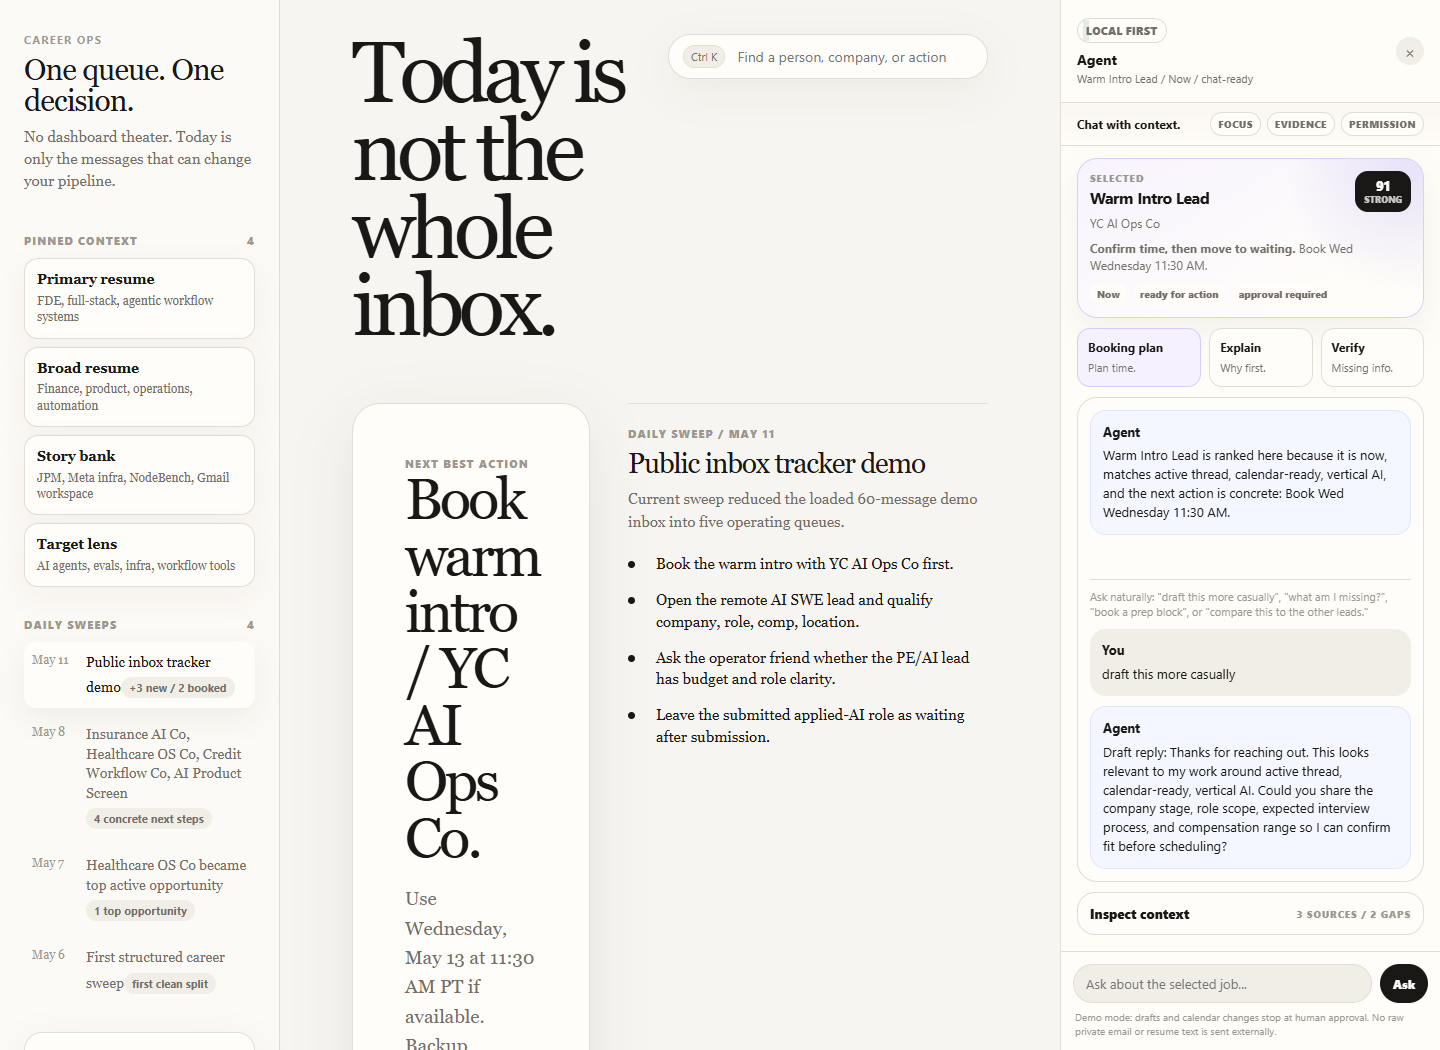
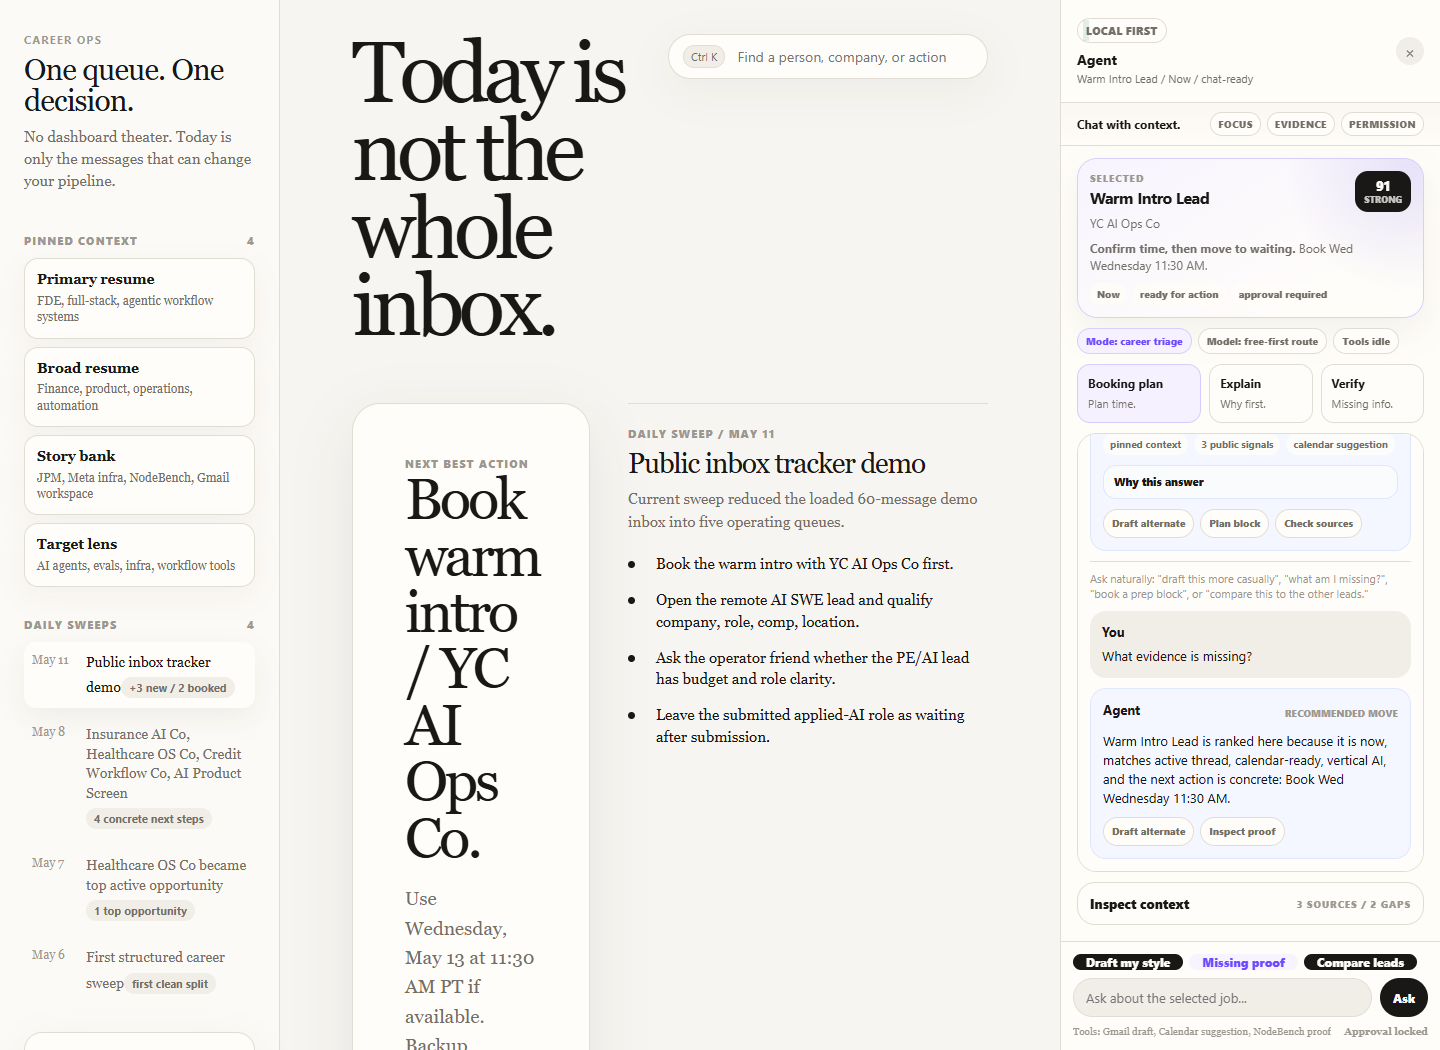
Add best-practice agent rail affordances

Changed region(s): [[0.75, 0.5486, 1.0, 1.0], [0.75, 0.3048, 0.9688, 0.5181]]

diff --git a/public/demo/today-queue.html b/public/demo/today-queue.html
@@ -795,10 +795,10 @@
     }
 
     .agent-body {
-      display: grid;
-      grid-template-rows: auto auto minmax(260px, 1fr) auto;
+      display: flex;
+      flex-direction: column;
       gap: 10px;
-      overflow: auto;
+      overflow: hidden;
       padding: 12px 16px 16px;
       font-family: ui-sans-serif, system-ui, -apple-system, BlinkMacSystemFont, "Segoe UI", sans-serif;
       font-size: 13px;
@@ -1137,8 +1137,35 @@
       min-height: 54px;
     }
 
+    .agent-modebar {
+      display: flex;
+      gap: 6px;
+      overflow: hidden;
+    }
+
+    .mode-chip {
+      min-width: 0;
+      border: 1px solid var(--line);
+      border-radius: 999px;
+      background: var(--surface);
+      color: var(--muted);
+      padding: 5px 8px;
+      font-size: 10px;
+      font-weight: 850;
+      white-space: nowrap;
+      text-overflow: ellipsis;
+      overflow: hidden;
+    }
+
+    .mode-chip.active {
+      border-color: #d8cffc;
+      background: #f5f1ff;
+      color: var(--purple);
+    }
+
     .agent-chat-thread {
       min-height: 260px;
+      flex: 1;
       overflow: auto;
       display: flex;
       flex-direction: column;
@@ -1151,6 +1178,92 @@
 
     .agent-chat-thread .agent-message {
       order: 0;
+    }
+
+    .agent-message-head {
+      display: flex;
+      align-items: center;
+      justify-content: space-between;
+      gap: 8px;
+      margin-bottom: 7px;
+    }
+
+    .agent-message-head strong {
+      margin: 0;
+    }
+
+    .message-meta {
+      color: var(--faint);
+      font-size: 10px;
+      font-weight: 850;
+      text-transform: uppercase;
+      white-space: nowrap;
+    }
+
+    .message-sources,
+    .message-actions {
+      display: flex;
+      flex-wrap: wrap;
+      gap: 6px;
+      margin-top: 10px;
+    }
+
+    .message-sources span {
+      border-radius: 999px;
+      background: rgba(255, 253, 249, .74);
+      color: var(--muted);
+      padding: 4px 7px;
+      font-size: 10px;
+      font-weight: 750;
+    }
+
+    .message-actions button,
+    .agent-suggestions button {
+      border: 1px solid var(--line);
+      border-radius: 999px;
+      background: var(--surface);
+      color: var(--muted);
+      padding: 6px 8px;
+      font-size: 10px;
+      font-weight: 850;
+      cursor: pointer;
+    }
+
+    .message-actions button:hover,
+    .agent-suggestions button:hover {
+      border-color: #d8cffc;
+      color: var(--purple);
+      background: #f7f4ff;
+    }
+
+    .message-reasoning {
+      margin-top: 10px;
+      border: 1px solid #dfe7ff;
+      border-radius: 13px;
+      background: rgba(255, 253, 249, .58);
+      overflow: hidden;
+    }
+
+    .message-reasoning summary {
+      cursor: pointer;
+      list-style: none;
+      padding: 8px 10px;
+      color: var(--ink);
+      font-size: 11px;
+      font-weight: 900;
+    }
+
+    .message-reasoning summary::-webkit-details-marker {
+      display: none;
+    }
+
+    .message-reasoning p {
+      margin: 0;
+      border-top: 1px solid #dfe7ff;
+      padding: 8px 10px;
+      color: var(--muted);
+      font-size: 11px;
+      line-height: 1.4;
     }
 
     .chat-note {
@@ -1191,6 +1304,35 @@
       font-weight: 900;
       letter-spacing: .08em;
       text-transform: uppercase;
+    }
+
+    .agent-suggestions {
+      display: flex;
+      gap: 6px;
+      overflow-x: auto;
+      padding-bottom: 8px;
+      scrollbar-width: none;
+    }
+
+    .agent-suggestions::-webkit-scrollbar {
+      display: none;
+    }
+
+    .composer-tools {
+      display: flex;
+      align-items: center;
+      justify-content: space-between;
+      gap: 8px;
+      margin-top: 8px;
+      color: var(--faint);
+      font-size: 10px;
+      line-height: 1.3;
+    }
+
+    .composer-tools span {
+      overflow: hidden;
+      text-overflow: ellipsis;
+      white-space: nowrap;
     }
 
     .agent-section-head {
@@ -1694,11 +1836,19 @@
       </div>
       <div class="agent-body" id="agentBody"></div>
       <div class="agent-input">
+        <div class="agent-suggestions" aria-label="Suggested prompts">
+          <button type="button" data-agent-prompt="Draft this in my writing style">Draft my style</button>
+          <button type="button" data-agent-prompt="What evidence is missing?">Missing proof</button>
+          <button type="button" data-agent-prompt="Compare this to the other active leads">Compare leads</button>
+        </div>
         <div class="agent-input-row">
           <input id="agentInput" placeholder="Ask about the selected job..." />
           <button id="agentSend" type="button">Ask</button>
         </div>
-        <div class="agent-hint">Demo mode: drafts and calendar changes stop at human approval. No raw private email or resume text is sent externally.</div>
+        <div class="composer-tools">
+          <span>Tools: Gmail draft, Calendar suggestion, NodeBench proof</span>
+          <strong>Approval locked</strong>
+        </div>
       </div>
     </aside>
     <button class="agent-toggle" id="agentToggle" type="button">Agent</button>
@@ -2177,6 +2327,12 @@
           </div>
         </section>
 
+        <section class="agent-modebar" aria-label="Agent mode and tool state">
+          <span class="mode-chip active">Mode: career triage</span>
+          <span class="mode-chip">Model: free-first route</span>
+          <span class="mode-chip">Tools idle</span>
+        </section>
+
         <section class="agent-inline-actions" aria-label="Quick agent commands">
           <button class="agent-command primary" data-agent-mode="${primaryMode}" type="button"><strong>${modeTitle(primaryMode)}</strong><span>${primaryMode === "book" ? "Plan time." : primaryMode === "research" ? "Check proof." : "Write reply."}</span></button>
           <button class="agent-command" data-agent-mode="rank" type="button"><strong>Explain</strong><span>Why first.</span></button>
@@ -2185,8 +2341,25 @@
 
         <section class="agent-chat-thread" aria-label="Agent conversation">
           <div class="agent-message agent">
-            <strong>Agent</strong>
-            ${agentAnswer(activeRow, mode)}
+            <div class="agent-message-head">
+              <strong>Agent</strong>
+              <span class="message-meta">${modeTitle(mode)}</span>
+            </div>
+            <div>${agentAnswer(activeRow, mode)}</div>
+            <div class="message-sources">
+              <span>pinned context</span>
+              <span>${proof.sources} public signals</span>
+              <span>calendar suggestion</span>
+            </div>
+            <details class="message-reasoning">
+              <summary>Why this answer</summary>
+              <p>Rank uses queue priority, pinned fit signals, public proof availability, and whether the next action is reversible without sending or scheduling anything automatically.</p>
+            </details>
+            <div class="message-actions">
+              <button type="button" data-agent-mode="draft">Draft alternate</button>
+              <button type="button" data-agent-mode="book">Plan block</button>
+              <button type="button" data-agent-mode="research">Check sources</button>
+            </div>
           </div>
           <div class="chat-note">Ask naturally: "draft this more casually", "what am I missing?", "book a prep block", or "compare this to the other leads."</div>
         </section>
@@ -2391,7 +2564,17 @@
       const conversationTarget = agentBody.querySelector(".agent-chat-thread") || agentBody;
       conversationTarget.insertAdjacentHTML("beforeend", `
         <div class="agent-message user"><strong>You</strong>${prompt}</div>
-        <div class="agent-message agent"><strong>Agent</strong>${agentAnswer(activeRow, mode)}</div>
+        <div class="agent-message agent">
+          <div class="agent-message-head">
+            <strong>Agent</strong>
+            <span class="message-meta">${modeTitle(mode)}</span>
+          </div>
+          <div>${agentAnswer(activeRow, mode)}</div>
+          <div class="message-actions">
+            <button type="button" data-agent-mode="draft">Draft alternate</button>
+            <button type="button" data-agent-mode="research">Inspect proof</button>
+          </div>
+        </div>
       `);
       agentInput.value = "";
       conversationTarget.scrollTop = conversationTarget.scrollHeight;
@@ -2399,6 +2582,12 @@
     });
     agentInput.addEventListener("keydown", (event) => {
       if (event.key === "Enter") document.getElementById("agentSend").click();
+    });
+    document.addEventListener("click", (event) => {
+      const promptButton = event.target.closest("[data-agent-prompt]");
+      if (!promptButton) return;
+      agentInput.value = promptButton.dataset.agentPrompt || "";
+      document.getElementById("agentSend").click();
     });
     document.addEventListener("click", (event) => {
       const modeButton = event.target.closest("[data-agent-mode], [data-agent-open]");

diff --git a/.claude/skills/minimal-inbox-redesign/SKILL.md b/.claude/skills/minimal-inbox-redesign/SKILL.md
@@ -144,10 +144,12 @@ The rail should read as a chat surface with compact decision context. Give it th
 ```text
 rail header with active object
 -> compact selected context strip
+-> mode/model/tool state chips
 -> quick action row
 -> visible chat thread
+-> source chips, response actions, and collapsible reasoning inside messages
 -> collapsed inspect-context drawer for readiness, proof, trace, missing gaps, and permission boundary
--> sticky compact composer
+-> suggested prompt chips + sticky compact composer
 ```
 
 The rail should:
@@ -156,6 +158,9 @@ The rail should:
 - show which context it is using without consuming the entire panel
 - offer concrete commands, not an open-ended wall of prompts
 - detect common prompt intent such as draft, book, schedule, research, verify, and explain
+- expose model/mode/tool state in compact chips
+- put sources, response actions, and reasoning controls inside the message they belong to
+- keep suggestions close to the composer, not as large cards in the content stream
 - keep private data boundaries visible
 - stop at draft, booking suggestion, research checklist, or explanation unless the product has explicit send/schedule approval
 - be collapsible so the main queue can reclaim width when needed

diff --git a/docs/agent-methods/minimal-inbox-redesign.md b/docs/agent-methods/minimal-inbox-redesign.md
@@ -105,11 +105,19 @@ For a premium desktop rail, structure it as:
 ```text
 header: active object + local-first status
 compact context strip: selected object + score + next action
+mode state: mode / model / tool activity chips
 quick actions: draft / explain / verify
-chat thread: primary answer and follow-up messages
+chat thread: primary answer, follow-up messages, source chips, message actions, collapsible reasoning
 inspect-context drawer: readiness / proof / trace / missing evidence / boundary
-sticky composer: short prompt input
+sticky composer: suggested prompt chips + short prompt input
 ```
+
+The inspiration is a blended pattern:
+
+- ChatGPT-style agent surfaces make tool/app access and approval boundaries visible.
+- Claude-style artifact thinking keeps the conversation separate from heavier context.
+- Cursor-style agent mode indicators keep tool state legible for power users.
+- Vercel AI Elements-style primitives map well to message, tool, reasoning, source, action, suggestion, and prompt-input regions.
 
 The rail should answer:
 

diff --git a/README.md b/README.md
@@ -26,7 +26,7 @@ The latest public-safe artifact is a deliberately simplified career-inbox interf
 - daily sweeps visible in the rail
 - simple `Now`, `Prep`, `Batch`, and `Later` filters
 - `Cmd/Ctrl+K` search for person, company, or action
-- a full-height right-side chat rail: compact selected context, quick actions, real conversation space, collapsed proof drawer, explicit permission boundary, and sticky composer
+- a full-height right-side chat rail: compact selected context, mode/model/tool state, quick actions, message sources/actions/reasoning, collapsed proof drawer, suggested prompts, explicit permission boundary, and sticky composer
 
 Open the standalone demo:
 
